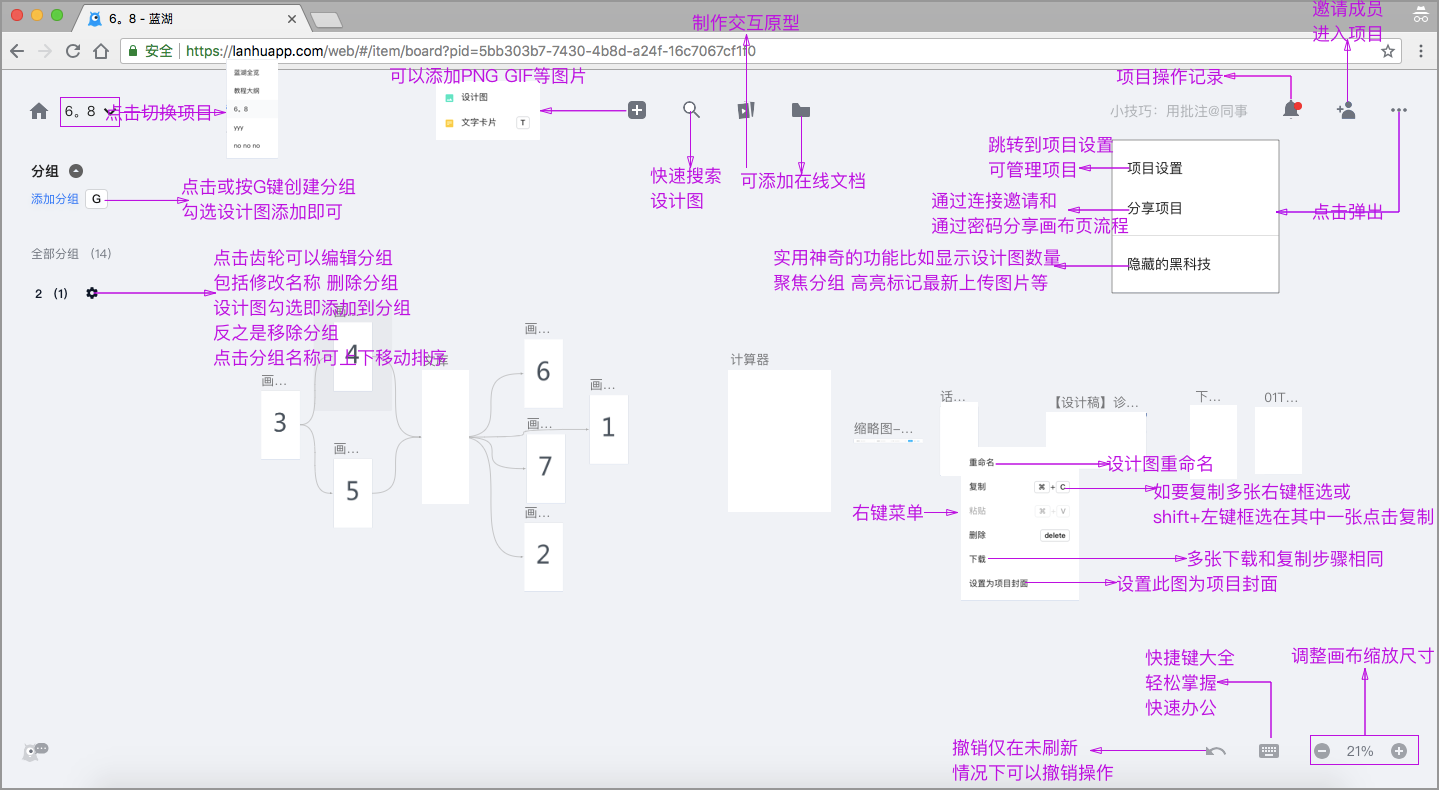
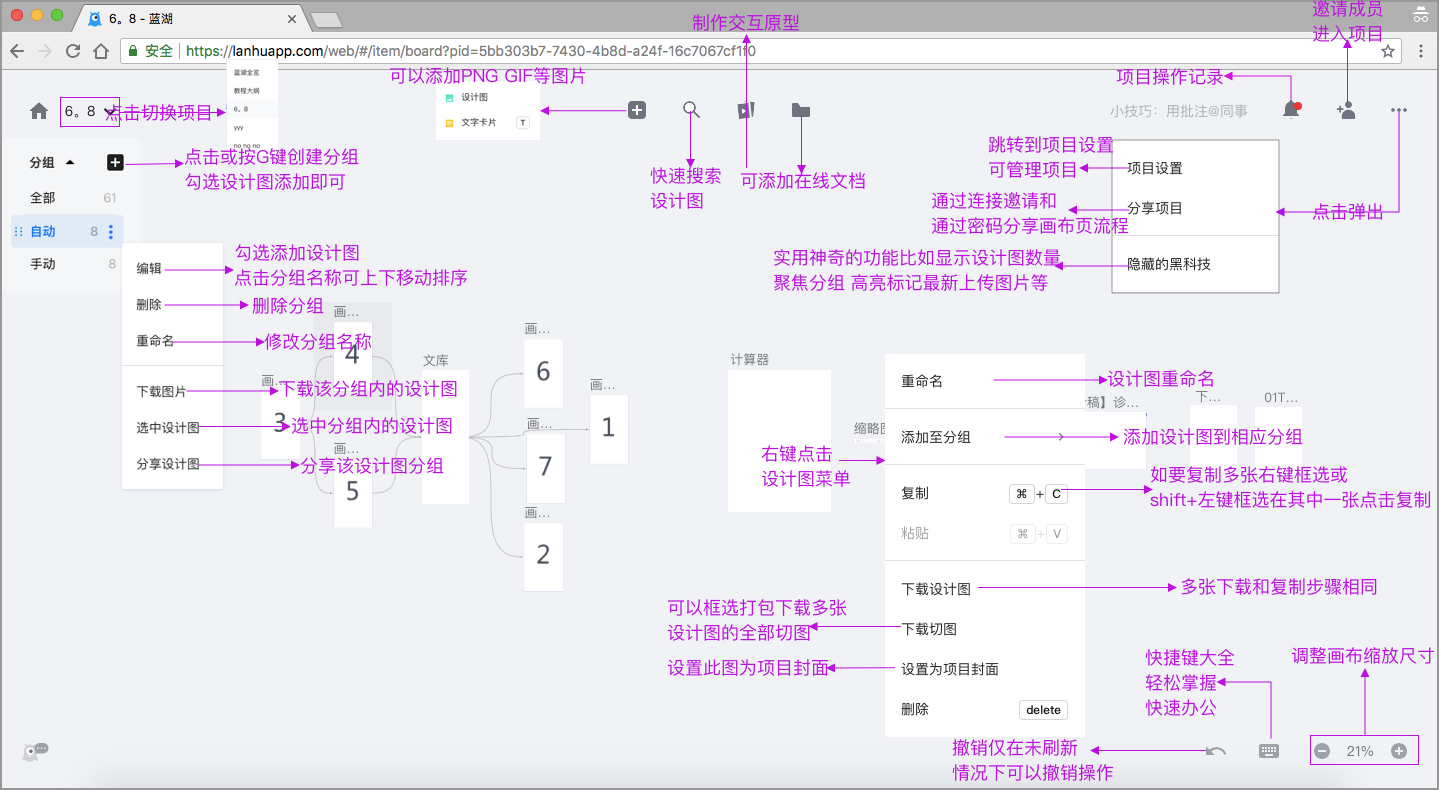
nana

diff --git a/lan-hu-xiang-xi-jiao-cheng.md b/lan-hu-xiang-xi-jiao-cheng.md
@@ -411,9 +411,19 @@ iPhone、iPad、iWatch 这三种设备的界面设计 属于—— iOS；
 
 👇
 
-![](.gitbook/assets/2%20%2812%29.png)
+![](.gitbook/assets/2-2.png)
 
-#### 1.4 复制设计图
+#### 1.4 下载切图
+
+在画布页面，按住 Shift + 鼠标左键选择多张设计图，或者，鼠标右键拖拽可框选设计图 ;
+
+框选后，右键菜单，选择【下载切图】，即可同时一键下载多张设计图内的全部切图。
+
+👇
+
+![](.gitbook/assets/3-25.png)
+
+#### 1.5 复制设计图
 
 选中需要复制的设计图/文字卡片，右键菜单；
 
@@ -421,15 +431,15 @@ iPhone、iPad、iWatch 这三种设备的界面设计 属于—— iOS；
 
 即可复制该设计图当前版本/文字卡片。
 
-👇 ![](.gitbook/assets/3%20%288%29.png)
+👇 ![](.gitbook/assets/2-3.png)
 
-#### 1.5 删除设计图
+#### 1.6 删除设计图
 
 选中要删除的设计图，右键菜单，或使用快捷键 “delete” 键即可删除该设计图及其所有历史版本、批注等内容。
 
 👇
 
-![](.gitbook/assets/4%20%284%29.png)
+![](.gitbook/assets/2-4.png)
 
 删除设计图之后，点击画布右下角“撤销”图标，即可撤销操作。
 
@@ -439,15 +449,15 @@ iPhone、iPad、iWatch 这三种设备的界面设计 属于—— iOS；
 
 💌 当页面刷新后 就无法再执行 “撤销”命令了，请谨慎删除操作。
 
-#### 1.6 设计图重命名
+#### 1.7 设计图重命名
 
 点设计图名称前的【修改】图标，或者选中需要重命名的设计图，右键菜单，即可对该设计图进行重新命名。
 
 👇
 
-![](.gitbook/assets/6%20%284%29.png)
+![](.gitbook/assets/2-6.png)
 
-#### 1.7 移动设计图
+#### 1.8 移动设计图
 
 鼠标左键长按设计图不放，可随意移动；
 
@@ -465,7 +475,7 @@ iPhone、iPad、iWatch 这三种设备的界面设计 属于—— iOS；
 
 💌 当页面刷新后 就无法再执行 “撤销”命令了。
 
-#### 1.8 搜索设计图
+#### 1.9 搜索设计图
 
 点击画布上方“搜索”图标，输入设计图名称即可。
 
@@ -481,7 +491,7 @@ iPhone、iPad、iWatch 这三种设备的界面设计 属于—— iOS；
 
 双击设计图，可打开当前设计图的标注页面。
 
-#### 1.9 设计图全览
+#### 1.10 设计图全览
 
 使用快捷键“F”，即可全览画布上所有的设计图。
 
@@ -493,23 +503,23 @@ iPhone、iPad、iWatch 这三种设备的界面设计 属于—— iOS；
 
 #### 2.1 添加分组
 
-点击画布左侧工具栏【添加分组】，或使用快捷键“G”；
+点击画布左侧工具栏分组旁的【添加】图标，或使用快捷键“G”；
 
 点击选择要添加至分组的设计图，然后【确定】 ；
 
-输入“分组名称”，点击【确定】即可。
+输入“分组名称”，点击【确定】即可。 
 
 👇
 
-![](.gitbook/assets/12.gif)
+![](.gitbook/assets/2-12.gif)
 
 #### 2.2 编辑分组
 
-点击左侧分组列表中，分组名称旁边的“设置”按钮，进入分组编辑模式；
+点击左侧分组列表中，分组名称旁边的【拓展】图标，在打开的菜单栏中选择【编辑】，即可进入分组编辑模式。
 
 👇
 
-![](.gitbook/assets/13.png)
+![](.gitbook/assets/2-13.png)
 
 **① 添加/删减设计图**
 
@@ -529,7 +539,14 @@ iPhone、iPad、iWatch 这三种设备的界面设计 属于—— iOS；
 
 ![](.gitbook/assets/15.gif)
 
-**③ 删除**
+或者点击分组名称旁的【拓展】图标，选择【重命名】，输入正确的名字，点击确定，即可。
+
+👇
+
+![](.gitbook/assets/2-33.png)
+
+
+**③ 删除分组**
 
 点击右上角的“删除”按钮即可删除分组。
 
@@ -886,7 +903,9 @@ dp=pt
 
 ![](.gitbook/assets/16.gif)
 
-### 6.下载切图
+### 6.切图
+
+#### 6.1 下载切图
 
 点击切图图标，即可下载该图标的多倍切图；
 
@@ -906,7 +925,18 @@ dp=pt
 
 ![](.gitbook/assets/19%20%282%29.png)
 
-#### 6.1 切图压缩
+
+✨PS：如何同时一键下载多张设计图的全部切图？
+
+在画布页面，按住 Shift + 鼠标左键选择多张设计图，或者，鼠标右键拖拽可框选设计图 ;
+
+框选后，右键菜单，选择【下载切图】，即可同时一键下载多张设计图内的全部切图。
+
+👇
+
+![](.gitbook/assets/3-25.png)
+
+#### 6.2 切图压缩
 
 在标注页面的切图下载按钮下方，选择【开启切图压缩】;
 
@@ -1067,7 +1097,7 @@ Sketch 插件下载地址：[https://lanhuapp.com/mac](https://lanhuapp.com/mac)
 
 👇
 
-![](.gitbook/assets/5_1_1.png)
+![](.gitbook/assets/5-10.gif)
 
 进入团队管理页面，点击右上角【设置】，选择【移交团队】；
 
@@ -1119,7 +1149,7 @@ Sketch 插件下载地址：[https://lanhuapp.com/mac](https://lanhuapp.com/mac)
 
 👇
 
-![](.gitbook/assets/15%20%281%29.png)
+![](.gitbook/assets/5-15.png)
 
 💌 解散团队后，该团队的所有内容将被删除，且不可恢复，请慎重操作 ☠。
 
@@ -1155,13 +1185,112 @@ Sketch 插件下载地址：[https://lanhuapp.com/mac](https://lanhuapp.com/mac)
 
 ![](.gitbook/assets/5_1_1.png)
 
-进入团队管理页面，找到你要删除的成员，点击最右边成员身份，在下拉列表中点击【删除成员】即可。
+进入团队管理页面，找到你要删除的成员，点击最右侧的【设置】图标；
+
+打开后，在弹出的成员权限管理界面，点击左下角的【删除成员】，选择【确定】，即可将该成员从团队中移除。
 
 👇
 
-![](.gitbook/assets/19%20%281%29.png)
+![](.gitbook/assets/5-21.gif)
 
-#### 2.3 成员权限说明
+✨PS：移除该成员后，其创建的项目仍保留。
+
+#### 2.3 成员分组
+
+只有该团队的超级管理员及管理员有权限进行成员分组管理。 
+
+在首页左侧功能栏中选择【管理团队】，进入团队管理页面。
+
+👇
+
+![](.gitbook/assets/5_1_1.png)
+
+**1⃣创建分组**
+
+点击团队管理页面左侧的【创建分组】图标，输入分组名称，点击【确定】，即可创建一个新的分组。
+
+👇
+
+![](.gitbook/assets/5-22.gif)
+
+**2⃣删除分组**
+
+点击分组名称旁的【拓展】图标，选择【删除】，点击【确定】，即可删除该成员分组。
+
+✨PS：成员分组删除后，不会将该分组内的成员移除该团队。
+
+👇
+
+
+![](.gitbook/assets/5-23.gif)
+
+**3⃣更改分组名称**
+
+点击分组名称旁的【拓展】图标，选择【重命名】，输入修改后面的名字，点击【确定】即可修改分组名称。
+
+👇
+
+
+![](.gitbook/assets/5-24.gif)
+
+**4⃣分组内添加成员**
+
+找到需要添加到分组内的成员，将其拖拽到合适的分组即可。
+
+👇
+
+![](.gitbook/assets/5-25.gif)
+
+✨PS：成员移动到了错误的分组怎么办？
+
+将其拖拽到合适的分组即可。
+
+
+#### 2.4 调整成员参与项目
+
+只有该团队的超级管理员及管理员有权限进行成员分组管理。 
+
+在首页左侧功能栏中选择【管理团队】，进入团队管理页面。
+
+👇
+
+![](.gitbook/assets/5_1_1.png)
+
+进入团队管理页面，找到你要调整参与项目的成员，点击最右侧的【设置】图标；
+
+👇
+
+
+![](.gitbook/assets/5-26.png)
+
+打开后，勾选下方【所参与的项目】，即可调整该成员参与的项目。
+
+👇
+
+![](.gitbook/assets/5-27.png)
+
+#### 2.5 成员权限
+
+**1⃣更改成员权限**
+
+只有该团队的超级管理员及管理员有权限更改成员权限。 
+
+在首页左侧功能栏中选择【管理团队】； 
+
+👇
+
+![](.gitbook/assets/5_1_1.png)
+
+进入团队管理页面，找到你要更改权限的成员，点击最右侧的【设置】图标，
+
+打开后，点开【成员权限】右侧的拓展图标，在下拉列表中选择该成员权限即可。
+
+👇
+
+![](.gitbook/assets/5-28.gif)
+
+
+**2⃣成员权限说明**
 
 ![](.gitbook/assets/20.png)
 

diff --git a/lan-hu-gong-neng-gai-lan.md b/lan-hu-gong-neng-gai-lan.md
@@ -27,4 +27,3 @@
 ## 原型演示页
 
 ![](.gitbook/assets/yuan-xing-yan-shi.png)
-
